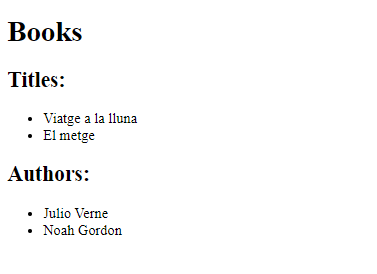
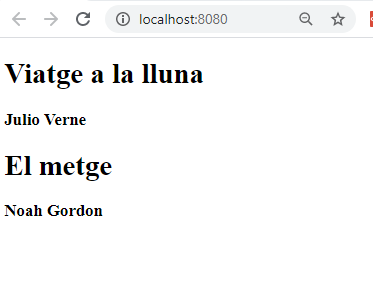
Level 3 - Made better
Just made againg level 3, changed the component and data.js consumed from App.js.

diff --git a/src/components/Book.js b/src/components/Book.js
@@ -1,32 +1,14 @@
 import React from 'react';
-//Import data.json 
-import data from '../data.json';
 
 class Book extends React.Component {
-
+ 
     render() {
-        // Create arrays with the titles
-        const titles = data.map((book) => book.title);
-        // Create arrays with the authors
-        const authors = data.map((book) => book.author);
-
         return (
             <div>
-                <h1>Books</h1>
-                <h2>Titles:</h2>
-                <ul>
-                    {titles.map((title, index) => // From titles array
-                        <li key={index}>{title}</li> // Create a <li> element with the index and the title - p.s. I've tried withouth key={} but is not working, we MUST declare the KEY
-                    )} 
-                </ul> 
-                <h2>Authors:</h2>
-                <ul>
-                    {authors.map((author, index) => // From authors array
-                        <li key={index}>{author}</li> // Create a <li> element with the index and the author
-                    )}
-                </ul>
+                <h1>{this.props.title}</h1>
+                <h3>{this.props.author}</h3>
             </div>
-        );
+        )
     }
 }
 export default Book;

diff --git a/src/App.js b/src/App.js
@@ -1,14 +1,36 @@
 import React from 'react';
 import Book from './components/Book';
 
-class App extends React.Component{
+//Import data.json 
+import data from './data.json';
 
-render(){
-    return (
-        <div>
-            <Book/>
-        </div>
-    )};
+class App extends React.Component {
+
+    render() {
+
+        // Create arrays with the titles using MAP() and the 2 variables 
+        const titles   = data.map((book) => book.title);
+        const titleOne = titles[0];
+        const titleTwo = titles[1];
+
+        // Create arrays with the authors using MAP() and the 2 variables
+        const authors   = data.map((book) => book.author);
+        const authorOne = authors[0];
+        const authorTwo = authors[1];
+
+        return (
+            <div>
+                <Book
+                    title={titleOne}
+                    author={authorOne}
+                />
+                <Book
+                    title={titleTwo}
+                    author={authorTwo}
+                />
+            </div>
+        )
+    };
 };
 
 export default App;
